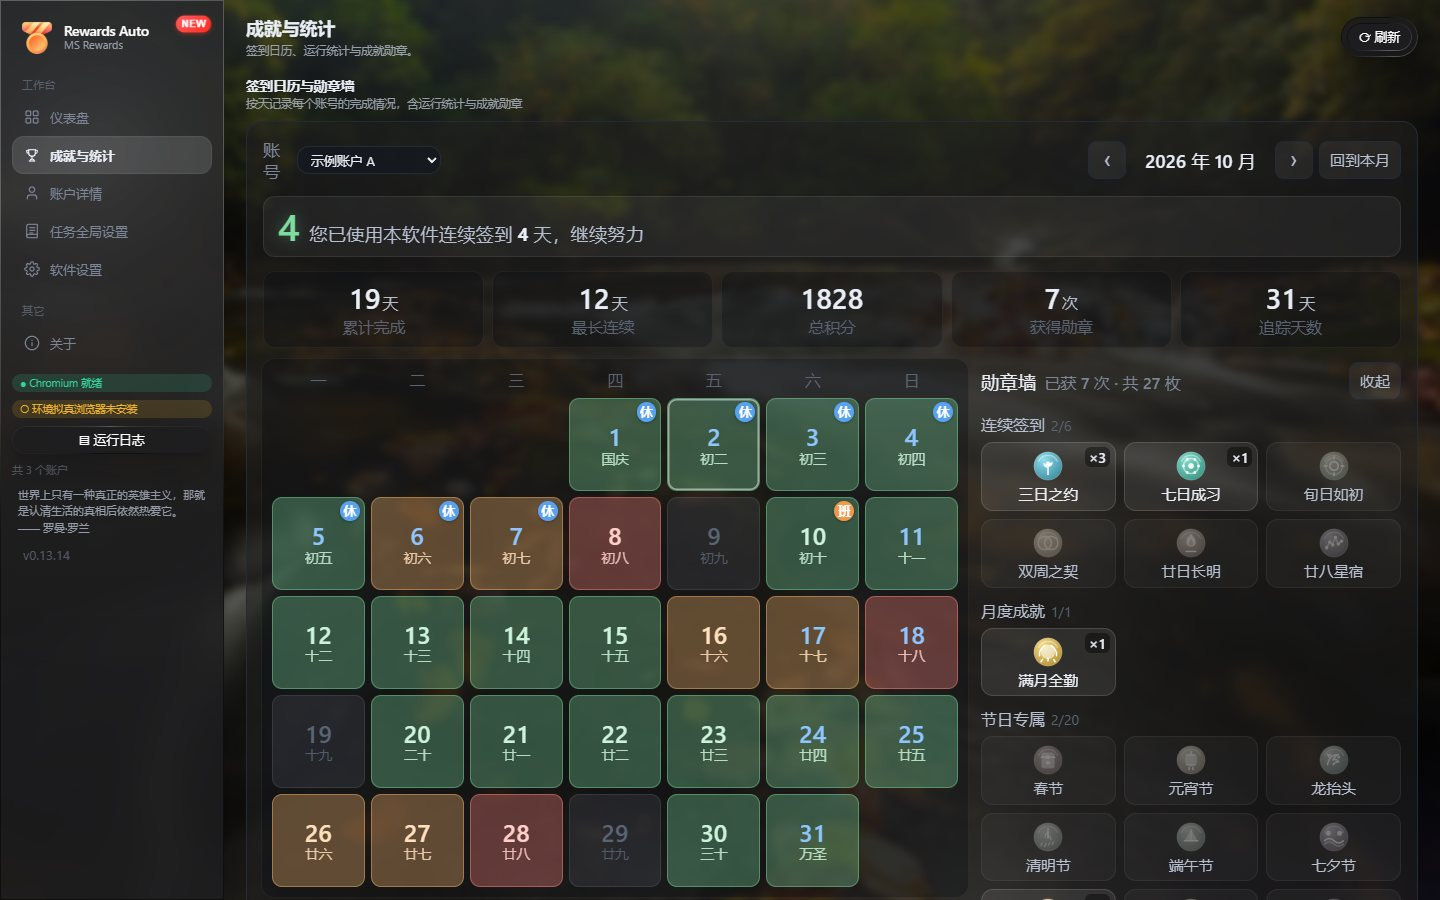
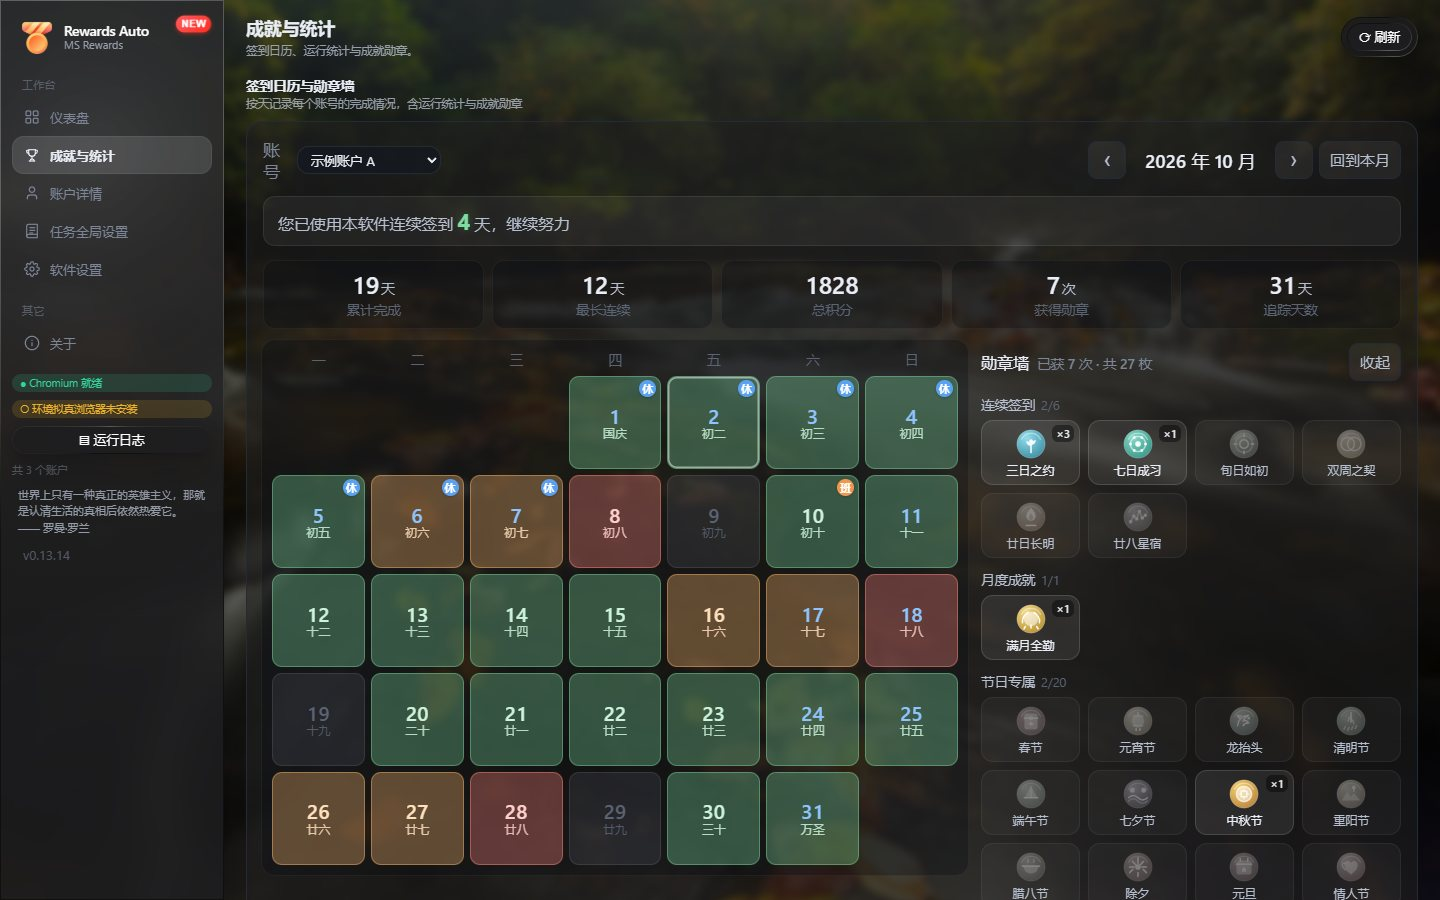
feat(成就页): 数字回归文案内、勋章墙 4 列、整页字号收小 + CI
界面调整（1440×900 实测：日期 30→20px，统计 32→24px，勋章名 15→12px）

- 连续签到的天数不再用独立的大号数字（.cal-streak-num，最大 40px），
  改为文案内 <b> 着色：22px、沿用原来的绿色 #7edca0，比正文略大但不再抢视觉。
  死代码 .cal-streak-num 的基础规则与 web 作用域规则一并删除。
- 勋章墙每行固定 4 个（原来 auto-fill + minmax(72–110px) 自适应，
  实际排 2–3 个纵向拉得很长）；窄屏也保持 4 列，勋章名缩写显示。
- 整页字号收小一档：日期 30→23px 上限、统计数字 32→25px、格高 112→88px、
  标签/角标/图例/勋章名同步下调。基础 .cal-cell / .cal-day / .cal-label
  的上限也一并下调（原来最大能到 48px）。

界面预览截图同步更新三张（壁纸为 Bing 每日一图，数据为 mock 演示数据）。

新增 GitHub Actions CI（.github/workflows/ci.yml）
- verify job：typecheck → selfcheck → build:web → build:web:docker，
  并把 Web 产物作为 artifact 上传。
- docker job：needs verify 串行执行 docker build（只构建不推送）。
- 用 npm ci 而非 npm install：lock 一致性只有 CI 能真正验出来
  （0.13.10 踩过 bump 工具改坏 lock、本地全绿但服务器 npm ci 报 EUSAGE）。
- 刻意不做「打包 Windows 安装包」：NSIS 打包依赖 wine，在 CI 上慢且脆，
  且发版仍由维护者手动执行（见 CONTRIBUTING.md）。

selfcheck 守卫同步更新并加新守卫：
- 「成就页字号封顶」断言的三个数值随设计更新（守卫必须跟着意图走）。
- 新增「勋章墙：每行固定 4 个」。
- 反例验证：把 CSS 改回旧写法后这两条正确变红（621/2），还原后 622/0。

diff --git a/scripts/selfcheck.js b/scripts/selfcheck.js
@@ -293,7 +293,7 @@ checkTrue("刚创建的未登录账户：自动调度跳过", g1.run === false, 
 checkTrue("未登录账户没有下次运行时间", guardRunner.nextRunTime(gCtx) === null);
 gCtx.state.get().refreshToken = "selfcheck-fake-token";
 gCtx.state.save();
-const g2 = guardRunner.shouldRunNow(gCtx);
+const g2 = guardRunner.shouldRunNow(gCtx, new Date(2026, 9, 2, 10, 0));
 checkTrue("授权后（有 refreshToken）恢复自动调度", g2.run === true, `实际 ${JSON.stringify(g2)}`);
 
 /* ============ 12. 版本号一致性守卫 ============ */
@@ -403,9 +403,14 @@ checkTrue("穷举中确有随机生效的样本（断言非空转）", appliedCo
 check(
   "limits 归一化：随机只认 true，篇数取整、负数回 0",
   normalizeLimits({ random: "yes", read: 6.9, promos: -3 }),
-  { random: false, read: 6, promos: 0, search: 0 }
+  { random: false, read: 6, promos: 0, search: 0, allowExceed: false }
 );
-check("limits 归一化：空值 → 全部不限制", normalizeLimits(null), { random: false, read: 0, promos: 0, search: 0 });
+check("limits 归一化：空值 → 全部不限制", normalizeLimits(null), { random: false, read: 0, promos: 0, search: 0, allowExceed: false });
+check("超额开关只接受 true", normalizeLimits({ allowExceed: "true" }).allowExceed, false);
+check("开启超额且剩余 2 / 设定 6 → 计划 6", plan({ base: 6, total: 2, allowExceed: true }).count, 6);
+check("超额随机可在设定值上加 4", plan({ base: 6, total: 2, allowExceed: true, random: true, rng: plus(4) }).count, 10);
+check("超额模式下无剩余仍不空跑", plan({ base: 6, total: 0, allowExceed: true }).count, 0);
+check("超额模式下不限制仍只做剩余量", plan({ base: 0, total: 2, allowExceed: true }).count, 2);
 
 // —— 静态守卫：任务侧接入 ——
 const tasksSrc2 = fs.readFileSync(path.join(ROOT, "src", "tasks.js"), "utf8");
@@ -444,27 +449,56 @@ const dSwapped = runnerModule.pickStartDelay({ schedule: { randomDelay: true, ra
 checkTrue("区间写反时仍取到合法值", dSwapped.seconds >= 10 && dSwapped.seconds <= 500, `实际 ${dSwapped.seconds}`);
 const scOld = runnerModule.normalizeSchedule({});
 check("老配置归一化补上 20/300 且默认开启", [scOld.randomDelay, scOld.randomDelayMin, scOld.randomDelayMax], [true, 20, 300]);
+check("老配置默认从 09:00 开始", scOld.startTime, "09:00");
+check("非法开始时刻回退 09:00", runnerModule.normalizeSchedule({ schedule: { startTime: "25:90" } }).startTime, "09:00");
+const scheduleCtx = (schedule, extra = {}) => ({
+  config: { get: () => ({ schedule }) },
+  state: {
+    get: () => ({ refreshToken: "selfcheck-fake-token", lastAutoRunAt: 0 }),
+    resetIfNewDay: () => false,
+    getAutoRounds: () => extra.rounds || 0,
+    isDayComplete: () => !!extra.done,
+  },
+});
+check("09:00 前自动运行被阻止", runnerModule.shouldRunNow(scheduleCtx({ startTime: "09:00" }), new Date(2026, 9, 2, 8, 59)).run, false);
+check("09:00 起可以自动运行", runnerModule.shouldRunNow(scheduleCtx({ startTime: "09:00" }), new Date(2026, 9, 2, 9, 0)).run, true);
+check("daily 08:00 与开始 09:00 取较晚者", runnerModule.shouldRunNow(scheduleCtx({ mode: "daily", time: "08:00", startTime: "09:00" }), new Date(2026, 9, 2, 9, 0)).run, true);
+check("daily 到时刻后错过巡检仍可运行", runnerModule.shouldRunNow(scheduleCtx({ mode: "daily", time: "09:00" }), new Date(2026, 9, 2, 9, 3)).run, true);
+check("daily 当天只触发一次", runnerModule.shouldRunNow(scheduleCtx({ mode: "daily", time: "09:00" }, { rounds: 1 }), new Date(2026, 9, 2, 9, 3)).run, false);
+check("跨零点时间段凌晨受开始时间限制", runnerModule.shouldRunNow(scheduleCtx({ mode: "windows", startTime: "09:00", windows: [{ start: "22:00", end: "02:00" }] }), new Date(2026, 9, 2, 1, 0)).run, false);
+const at = (date) => [date.getDate(), date.getHours(), date.getMinutes()];
+check("首次间隔运行预计 09:00", at(runnerModule.nextRunTime(scheduleCtx({ startTime: "09:00" }), new Date(2026, 9, 2, 8, 0))), [2, 9, 0]);
+check("daily 08:00 晚于开始门禁时预计 09:00", at(runnerModule.nextRunTime(scheduleCtx({ mode: "daily", time: "08:00", startTime: "09:00" }), new Date(2026, 9, 2, 8, 0))), [2, 9, 0]);
+check("daily 今日已触发则预计次日", at(runnerModule.nextRunTime(scheduleCtx({ mode: "daily", time: "09:00" }, { rounds: 1 }), new Date(2026, 9, 2, 9, 1))), [3, 9, 0]);
+check("当天完成后预计次日 09:00", at(runnerModule.nextRunTime(scheduleCtx({ startTime: "09:00" }, { done: true }), new Date(2026, 9, 2, 16, 0))), [3, 9, 0]);
+check("达到每日轮数上限预计次日", at(runnerModule.nextRunTime(scheduleCtx({ startTime: "09:00", maxRounds: 1 }, { rounds: 1 }), new Date(2026, 9, 2, 16, 0))), [3, 9, 0]);
+const reversedWindows = scheduleCtx({ mode: "windows", windows: [{ start: "19:00", end: "20:00" }, { start: "10:00", end: "11:00" }] });
+check("多段乱序仍预计最早时间段", at(runnerModule.nextRunTime(reversedWindows, new Date(2026, 9, 2, 8, 0))), [2, 10, 0]);
+check("跨零点段晚间预计 22:00", at(runnerModule.nextRunTime(scheduleCtx({ mode: "windows", windows: [{ start: "22:00", end: "02:00" }] }), new Date(2026, 9, 2, 19, 0))), [2, 22, 0]);
 
 // —— 默认值三处同步（config / global-config / 渲染层 mock） ——
 const cfgDefaults = require(path.join(ROOT, "src", "config.js")).DEFAULTS;
 const globalDefaults = require(path.join(ROOT, "src", "global-config.js")).GLOBAL_DEFAULTS;
 const mockSrc = fs.readFileSync(path.join(ROOT, "src-renderer", "src", "api", "mock.ts"), "utf8");
-check("config.DEFAULTS 含 limits", cfgDefaults.limits, { random: false, read: 6, promos: 0, search: 6 });
-check("global-config 默认值同步含 limits", globalDefaults.limits, { random: false, read: 6, promos: 0, search: 6 });
-checkTrue("渲染层 mock 默认值同步含 limits（含 search）", /limits: \{ random: false, read: 6, promos: 0, search: 6 \}/.test(mockSrc));
+check("config.DEFAULTS 含 limits", cfgDefaults.limits, { random: false, read: 6, promos: 0, search: 6, allowExceed: false });
+check("global-config 默认值同步含 limits", globalDefaults.limits, { random: false, read: 6, promos: 0, search: 6, allowExceed: false });
+checkTrue("渲染层 mock 默认值同步含 limits（含超额开关）", /limits: \{ random: false, read: 6, promos: 0, search: 6, allowExceed: false \}/.test(mockSrc));
 // 0.9.4 白屏根因：global-config 的 GLOBAL_DEFAULTS 缺 goals，旧配置文件只有
 // { enable: true } 无 items，全局设置页 value.goals.items 抛 TypeError。必须与
 // config.DEFAULTS.goals 对齐，带 items: [] 兜底。
 check("global-config 默认值含 goals.items 兜底", globalDefaults.goals, { enable: true, items: [] });
 for (const [name, d] of [["config", cfgDefaults], ["global-config", globalDefaults]]) {
   check(`${name} 随机延迟默认 开启/20/300`, [d.schedule.randomDelay, d.schedule.randomDelayMin, d.schedule.randomDelayMax], [true, 20, 300]);
+  check(`${name} 每天默认开始时间`, d.schedule.startTime, "09:00");
 }
 checkTrue("渲染层 mock 随机延迟默认同步", /randomDelay: true,\s*\n\s*randomDelayMin: 20,\s*\n\s*randomDelayMax: 300,/.test(mockSrc));
+checkTrue("渲染层 mock 默认开始时间同步", /startTime: "09:00"/.test(mockSrc));
 
 // —— 静态守卫：设置页 ——
 const formSrc = fs.readFileSync(path.join(ROOT, "src-renderer", "src", "components", "SettingsForm.tsx"), "utf8");
 checkTrue("设置页有阅读/积分活动单次数量输入", /阅读文章每次篇数/.test(formSrc) && /积分活动每次个数/.test(formSrc));
 checkTrue("设置页有随机波动开关", /limits: \{ random: v \}/.test(formSrc));
+checkTrue("设置页有超额开关与开始时间", /limits: \{ allowExceed: v \}/.test(formSrc) && /patchSchedule\(\{ startTime: v \}\)/.test(formSrc));
 checkTrue("设置页有随机延迟开关与区间", /randomDelay: v/.test(formSrc) && /randomDelayMin/.test(formSrc) && /randomDelayMax/.test(formSrc));
 // 0.9.4 白屏根因（渲染层防御）：goals 只用 ?? 兜底，遇到 { enable: true } 缺 items 时
 // goals.items.length 抛错。必须逐字段兜底，用 Array.isArray 判 items。
@@ -556,6 +590,76 @@ checkTrue("runner 按开关调用 taskClaimRewards", /cfg\.tasks\.claim \? await
 checkTrue("runner 本地合计纳入 dailyPoint", /readPoint \+ dailyPoint \+ promosPoint/.test(runnerSource));
 checkTrue("rewards 区域检查接入 ip-lookup", /require\("\.\/ip-lookup"\)/.test(rewardsSrc) && /ipLookup\.lookupCountry\(ctx, provider\)/.test(rewardsSrc));
 checkTrue("rewards 第三方不可用时回落 Bing", /async function bingRegionCheck/.test(rewardsSrc));
+// —— 锁定国区判定：多源保守 union + 反例回归 ——
+checkTrue(
+  "bingRegionCheck 锁定国区时双站并发探测（cn + www）",
+  /\["cn\.bing\.com", "www\.bing\.com"\]/.test(rewardsSrc)
+);
+checkTrue(
+  "mainlandCheck 锁定国区时强制并查 ipsb 境外 GeoIP",
+  /queryProvider\("ipsb", ctx\)/.test(rewardsSrc)
+);
+checkTrue(
+  "mainlandCheck 通过 judgeMainland 汇聚多源判定",
+  /judgeMainland\(verdicts, \{\s*lock:\s*true\s*\}\)/.test(rewardsSrc)
+);
+checkTrue(
+  "已删除模块级 cachedHost 缓存（避免跨账户污染）",
+  !/let cachedHost\b/.test(rewardsSrc)
+);
+
+// 纯函数 judgeMainland：直接 require 即可离线断言
+const { judgeMainland: judgeMainlandPure } = require(path.join(ROOT, "src", "rewards.js"));
+const _v1 = [
+  { source: "bing", region: "CN", ipcc: "CN", mainland: true },
+  { source: "ipsb", ip: "49.81.112.122", countryCode: "CN", mainland: true },
+];
+check("lock=true + 全部 CN → 放行", judgeMainlandPure(_v1, { lock: true }).ok, true);
+
+const _v2 = [
+  { source: "bing", region: "CN", ipcc: "CN", mainland: true },  // cn.bing.com 直连 → CN
+  { source: "ipsb", ip: "203.10.99.34", countryCode: "JP", mainland: false, detail: "GSL" },  // 代理节点 → JP
+];
+const _v2r = judgeMainlandPure(_v2, { lock: true });
+check("lock=true + 任一非 CN → 拦截（昨夜那个 bug：CN+JP 必须变红）", _v2r.ok, false);
+checkTrue("拦截原因包含源标识 ipsb", /ipsb/.test(_v2r.reason || ""));
+
+const _v3 = [
+  { source: "bing", mainland: null },                              // 解析失败
+  { source: "ipsb", mainland: null },                              // 网络失败
+];
+check("lock=true + 全部 inconclusive → 放行（保留保守放行，不误停）",
+  judgeMainlandPure(_v3, { lock: true }).ok, true);
+
+const _v4 = [
+  { source: "bing", region: "JP", ipcc: "JP", mainland: false },
+  { source: "ipsb", countryCode: "JP", mainland: false },
+];
+check("lock=true + 全部非 CN → 拦截", judgeMainlandPure(_v4, { lock: true }).ok, false);
+
+check("lock=false + 非 CN → 仍放行（信息展示用途，不锁）",
+  judgeMainlandPure(_v4, { lock: false }).ok, true);
+
+const _v5 = [
+  { source: "bing", region: "CN", ipcc: "CN", mainland: true },
+  { source: "pconline", ip: "8.8.8.8", countryCode: "US", mainland: false },
+  { source: "ipsb", ip: "203.10.99.34", countryCode: "JP", mainland: false },
+];
+const _v5r = judgeMainlandPure(_v5, { lock: true });
+check("lock=true + 三源任一非 CN → 拦截", _v5r.ok, false);
+
+// —— 区域拦截推送：geoLabel 归属地展示串 + 判定结果携带 IP/归属地 ——
+check("geoLabel 完整字段 → Tokyo/JP(东京/日本)",
+  ipLookup.geoLabel([{ source: "ipsb", countryCode: "JP", cityEn: "Tokyo" }]), "Tokyo/JP(东京/日本)");
+check("geoLabel 城市未收录时回落英文城市名",
+  ipLookup.geoLabel([{ countryCode: "US", cityEn: "Fremont" }]), "Fremont/US(美国)");
+check("geoLabel 兼容 bing verdict 的 ipcc 字段名",
+  ipLookup.geoLabel([{ source: "bing", ipcc: "JP" }]), "JP(日本)");
+check("geoLabel 全空 → 未知", ipLookup.geoLabel([]), "未知");
+checkTrue("拦截结果携带 IP 与归属地（推送文案素材）",
+  typeof _v2r.ip === "string" && _v2r.ip === "203.10.99.34" && /JP/.test(_v2r.geo || ""));
+checkTrue("拦截 reason 文案含「检测到非…区域」（预留锁区功能）",
+  /检测到非.+区域/.test(_v2r.reason || ""));
 checkTrue("state 默认 tasksDone 含 daily", /tasksDone: \{ sign: 0, read: 0, daily: 0, promos: 0, search: 0 \}/.test(stateSrc));
 checkTrue("state 每日累计含 dailyPoint 且跨天清零", /dailyPoint: 0,/.test(stateSrc));
 
@@ -2169,7 +2273,7 @@ checkTrue(
   /fd\/auth\/signin/.test(bingSsoSrc) &&
     /\?action=interactive&provider=windows_live_id/.test(bingSsoSrc) &&
     /async function ensureBingSSO/.test(bingSsoSrc) &&
-    /微软账号在线但 Bing 侧缺少登录票据/.test(bingSsoSrc) &&
+    /MS账号在线但 Bing 侧缺少登录票据/.test(bingSsoSrc) &&
     /!hasBingAuthCookies\(cookies\) && hasAuthCookies\(cookies\)/.test(bingSsoSrc) &&
     /!ssoTried && !hasBingAuthCookies\(last\.cookies\) && hasAuthCookies\(last\.cookies\)/.test(bingSsoSrc),
   "静默 SSO 缺失或没接入两路同步 → Bing 缺 _U 的用户永远无法自动补登"
@@ -2181,7 +2285,7 @@ checkTrue(
 );
 
 // 0.13.6 点按钮兜底：静默 SSO 没补上票时，像真人一样点 Bing 首页「登录」按钮，
-// 并自动走完微软确认页（#idSIButton9）/ 账户瓦片选择，两路同步都接入。
+// 并自动走完MS确认页（#idSIButton9）/ 账户瓦片选择，两路同步都接入。
 checkTrue(
   "静默 SSO 失败后回退模拟点登录按钮：点 Bing 首页 #id_l、自动确认 #idSIButton9 / 账户瓦片",
   /async function ensureBingLoginByClick/.test(bingSsoSrc) &&
@@ -3007,10 +3111,16 @@ checkTrue(
     /className="cal-badges-col"/.test(calSrc)
 );
 checkTrue(
-  "成就页字号封顶：日期 ≤30px / 统计数字 ≤32px / 日历格 ≤112px",
-  /\.achievements-view \.cal-day \{ font-size: clamp\(17px, 2\.125cqw, 30px\); \}/.test(calCss) &&
-    /\.achievements-view \.cal-stat-value \{ font-size: clamp\(20px, 2\.5cqw, 32px\); \}/.test(calCss) &&
-    /\.achievements-view \.cal-cell \{[^}]*min-height:\s*clamp\(52px,\s*6\.5cqw,\s*112px\)/.test(calCss)
+  "成就页字号封顶：日期 ≤23px / 统计数字 ≤25px / 日历格 ≤88px",
+  /\.achievements-view \.cal-day \{ font-size: clamp\(15px, 1\.8cqw, 23px\); \}/.test(calCss) &&
+    /\.achievements-view \.cal-stat-value \{ font-size: clamp\(18px, 2\.1cqw, 25px\); \}/.test(calCss) &&
+    /\.achievements-view \.cal-cell \{[^}]*min-height:\s*clamp\(48px,\s*5\.6cqw,\s*88px\)/.test(calCss)
+);
+
+// —— 勋章墙 4 列（2026-10-02） ——
+checkTrue(
+  "勋章墙：每行固定 4 个（不再 auto-fill 自适应）",
+  /\.achievements-view \.cal-blist \{\s*grid-template-columns:\s*repeat\(4,\s*minmax\(0,\s*1fr\)\)/.test(calCss)
 );
 
 // —— 滚轮翻月作用域 + 勋章墙展开动画（2026-09-30 二次反馈） ——

diff --git a/src-renderer/src/styles/global.css b/src-renderer/src/styles/global.css
@@ -3644,13 +3644,6 @@ html[data-preset="opaque"] .compat-toast {
   background: rgb(255 255 255 / 0.05);
   border: 1px solid rgb(255 255 255 / 0.08);
 }
-.cal-streak-num {
-  font-size: clamp(26px, 3.25cqw, 74px);
-  font-weight: 600;
-  line-height: 1;
-  color: #7edca0;
-  text-shadow: 0 0 14px rgb(126 220 160 / 0.35);
-}
 .cal-streak-txt {
   font-size: clamp(13px, 1.625cqw, 37px);
   color: var(--text-dim);
@@ -3711,7 +3704,7 @@ html[data-preset="opaque"] .compat-toast {
 .cal-cell {
   position: relative;
   aspect-ratio: 1 / 1;
-  min-height: clamp(52px, 6.5cqw, 148px);
+  min-height: clamp(48px, 5.6cqw, 112px);
   border-radius: 10px;
   display: flex;
   flex-direction: column;
@@ -3731,13 +3724,13 @@ html[data-preset="opaque"] .compat-toast {
   border-color: transparent;
 }
 .cal-day {
-  font-size: clamp(17px, 2.125cqw, 48px);
+  font-size: clamp(15px, 1.8cqw, 26px);
   font-weight: 600;
   font-variant-numeric: tabular-nums;
   line-height: 1.05;
 }
 .cal-label {
-  font-size: clamp(9.5px, 1.19cqw, 27px);
+  font-size: clamp(9px, 1.05cqw, 14px);
   line-height: 1;
   opacity: 0.85;
   font-variant-numeric: tabular-nums;
@@ -3995,11 +3988,8 @@ html[data-preset="opaque"] .compat-toast {
   padding: 8px 12px;
   border-radius: 10px;
 }
-:root[data-web="1"] .achievements-view .cal-streak-num {
-  font-size: clamp(22px, 2cqw, 30px);
-}
 :root[data-web="1"] .achievements-view .cal-streak-txt {
-  font-size: clamp(12px, 1.1cqw, 14px);
+  font-size: clamp(11px, 1cqw, 13px);
 }
 :root[data-web="1"] .achievements-view .cal-stats {
   gap: 6px;
@@ -4171,35 +4161,45 @@ html[data-preset="opaque"] .compat-toast {
   height: clamp(28px, 3.5cqw, 38px);
   font-size: clamp(12px, 1.5cqw, 15px);
 }
-.achievements-view .cal-streak-num { font-size: clamp(26px, 3.25cqw, 40px); }
-.achievements-view .cal-streak-txt { font-size: clamp(13px, 1.625cqw, 20px); }
-.achievements-view .cal-stat-value { font-size: clamp(20px, 2.5cqw, 32px); }
+/* 连续签到的天数数字：沿用原来的绿色调，字号略大于正文但不再做成独立大号数字 */
+.achievements-view .cal-streak-txt { font-size: clamp(12px, 1.4cqw, 16px); }
+.achievements-view .cal-streak-txt b {
+  font-size: 1.35em;
+  font-weight: 700;
+  color: #7edca0;
+  text-shadow: 0 0 10px rgb(126 220 160 / 0.28);
+}
+
+
+.achievements-view .cal-stat-value { font-size: clamp(18px, 2.1cqw, 25px); }
 .achievements-view .cal-stat-value span,
-.achievements-view .cal-stat-label { font-size: clamp(11px, 1.375cqw, 16px); }
-.achievements-view .cal-week { font-size: clamp(11px, 1.375cqw, 16px); }
+.achievements-view .cal-stat-label { font-size: clamp(10.5px, 1.2cqw, 13.5px); }
+.achievements-view .cal-week { font-size: clamp(10.5px, 1.2cqw, 13.5px); }
 .achievements-view .cal-cell {
-  min-height: clamp(52px, 6.5cqw, 112px);
-  font-size: clamp(12px, 1.5cqw, 16px);
+  min-height: clamp(48px, 5.6cqw, 88px);
+  font-size: clamp(11px, 1.3cqw, 14px);
 }
-.achievements-view .cal-day { font-size: clamp(17px, 2.125cqw, 30px); }
-.achievements-view .cal-label { font-size: clamp(9.5px, 1.19cqw, 15px); }
-.achievements-view .cal-pts { font-size: clamp(9px, 1.125cqw, 14px); }
+.achievements-view .cal-day { font-size: clamp(15px, 1.8cqw, 23px); }
+.achievements-view .cal-label { font-size: clamp(9px, 1.05cqw, 12.5px); }
+.achievements-view .cal-pts { font-size: clamp(8.5px, 1cqw, 12px); }
 .achievements-view .cal-tag {
-  width: clamp(14px, 1.75cqw, 24px);
-  height: clamp(14px, 1.75cqw, 24px);
-  font-size: clamp(9px, 1.125cqw, 13px);
+  width: clamp(13px, 1.5cqw, 19px);
+  height: clamp(13px, 1.5cqw, 19px);
+  font-size: clamp(8.5px, 1cqw, 11.5px);
 }
-.achievements-view .cal-loading { font-size: clamp(12px, 1.5cqw, 16px); }
-.achievements-view .cal-legend { font-size: clamp(11.5px, 1.44cqw, 16px); }
-.achievements-view .cal-badges-title { font-size: clamp(13px, 1.625cqw, 20px); }
-.achievements-view .cal-badges-title em { font-size: clamp(11.5px, 1.44cqw, 16px); }
-.achievements-view .cal-bgroup-title { font-size: clamp(12px, 1.5cqw, 16px); }
-.achievements-view .cal-bgroup-title em { font-size: clamp(11px, 1.375cqw, 14px); }
+.achievements-view .cal-loading { font-size: clamp(11px, 1.3cqw, 14px); }
+.achievements-view .cal-legend { font-size: clamp(10.5px, 1.2cqw, 13.5px); }
+.achievements-view .cal-badges-title { font-size: clamp(12px, 1.45cqw, 16px); }
+.achievements-view .cal-badges-title em { font-size: clamp(10.5px, 1.2cqw, 13.5px); }
+.achievements-view .cal-bgroup-title { font-size: clamp(11px, 1.25cqw, 13.5px); }
+.achievements-view .cal-bgroup-title em { font-size: clamp(10px, 1.15cqw, 12.5px); }
+/* 勋章墙：每行固定 4 个 */
 .achievements-view .cal-blist {
-  grid-template-columns: repeat(auto-fill, minmax(clamp(72px, 9cqw, 110px), 1fr));
+  grid-template-columns: repeat(4, minmax(0, 1fr));
+  gap: clamp(6px, 0.7cqw, 10px);
 }
-.achievements-view .cal-bname { font-size: clamp(10.5px, 1.31cqw, 15px); }
-.achievements-view .cal-bcount { font-size: clamp(9.5px, 1.19cqw, 14px); }
+.achievements-view .cal-bname { font-size: clamp(9.5px, 1.1cqw, 12px); }
+.achievements-view .cal-bcount { font-size: clamp(8.5px, 1cqw, 11px); }
 
 @media (max-width: 720px) {
   :root[data-web="1"] .shell.shell-achievements {

diff --git a/src-renderer/src/views/CalendarPanel.tsx b/src-renderer/src/views/CalendarPanel.tsx
@@ -149,9 +149,8 @@ export function CalendarPanel({ accounts }: { accounts: Account[] }) {
           </div>
         </div>
 
-        {/* ---- 连续签到文案 ---- */}
+        {/* ---- 连续签到文案（天数用 <b> 着色，不再另起一个大号数字）---- */}
         <div className="cal-streak">
-          <span className="cal-streak-num">{streak}</span>
           <span className="cal-streak-txt">
             您已使用本软件连续签到 <b>{streak}</b> 天，继续努力
           </span>
